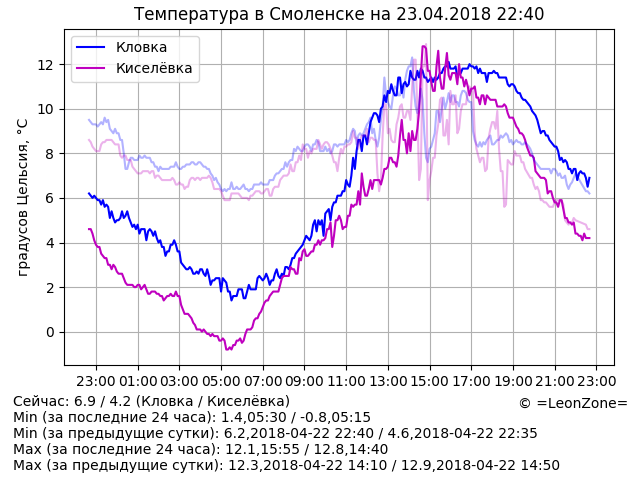
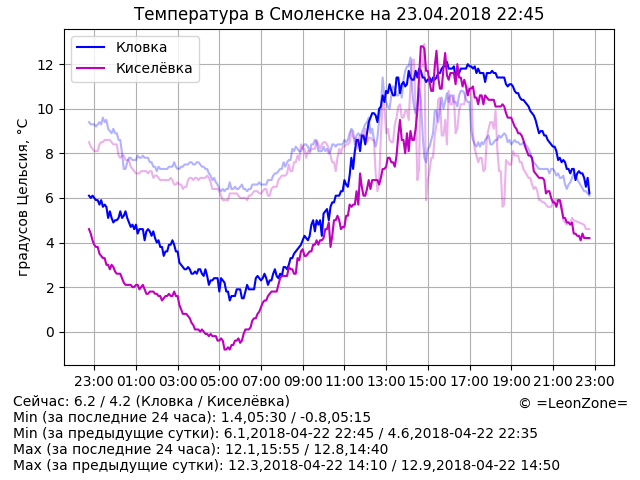
Update data

diff --git a/index.html b/index.html
@@ -14,9 +14,9 @@
 	<p align="center"><script>document.write("<img src=\"graph.png?rnd="+Math.random()+"\" alt=\"Температура в Смоленске\" align=\"middle\" width=\"640\" height=\"480\" />")</script>
 	<p hidden="true">
 <!-- textinfo -->
-Сейчас: 6.9 / 4.2 (Кловка / Киселёвка)
+Сейчас: 6.2 / 4.2 (Кловка / Киселёвка)
 Min (за последние 24 часа): 1.4,05:30 / -0.8,05:15
-Min (за предыдущие сутки): 6.2,2018-04-22 22:40 / 4.6,2018-04-22 22:35
+Min (за предыдущие сутки): 6.1,2018-04-22 22:45 / 4.6,2018-04-22 22:35
 Max (за последние 24 часа): 12.1,15:55 / 12.8,14:40
 Max (за предыдущие сутки): 12.3,2018-04-22 14:10 / 12.9,2018-04-22 14:50
 <!-- /textinfo -->
